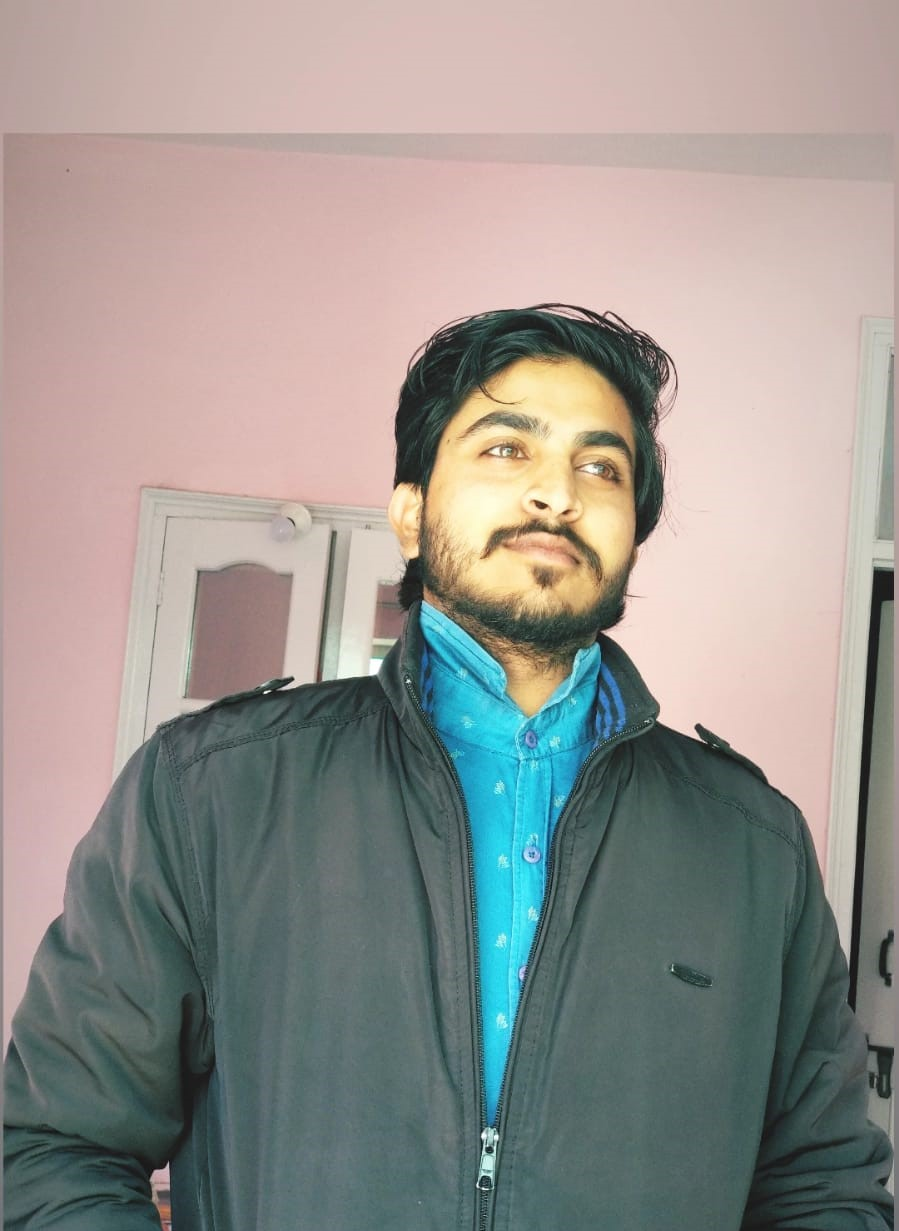
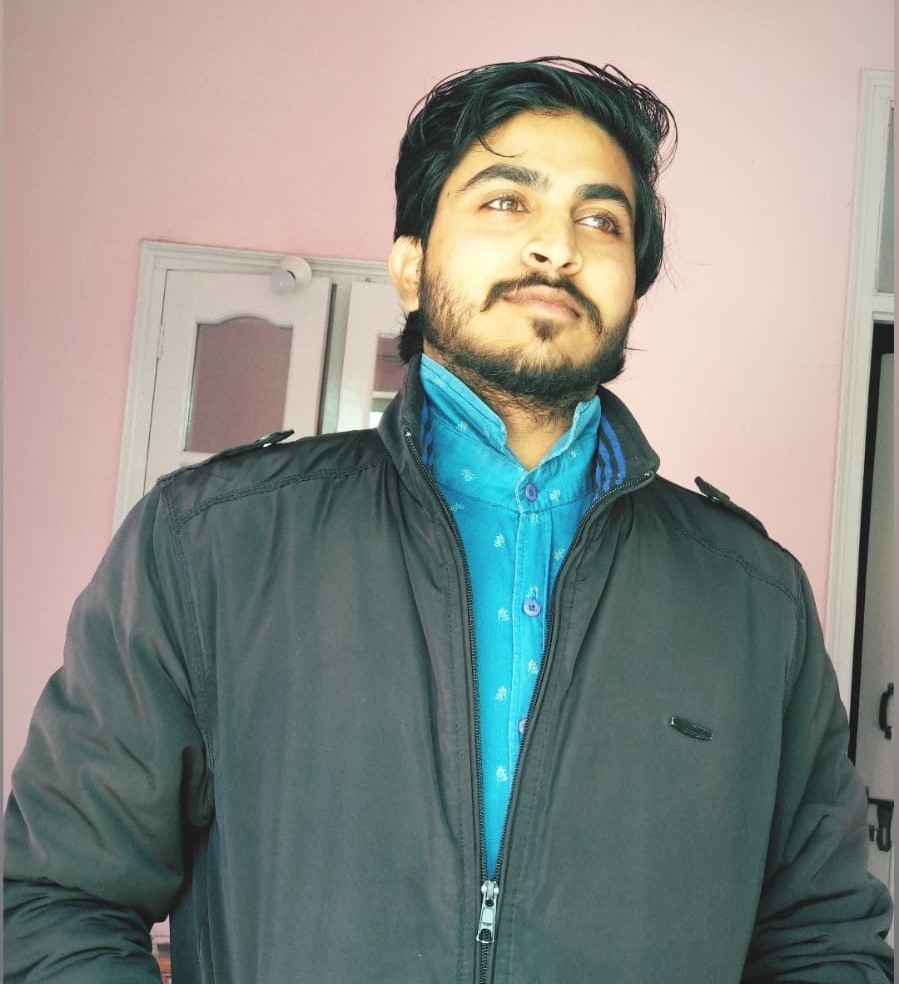
add ap

diff --git a/index.html b/index.html
@@ -239,7 +239,7 @@
 
         <div class="row">
           <div class="col-lg-4">
-            <img src="assets/img/profilep1-img.jpg" class="img-fluid" alt="">
+            <img src="assets/img/dp1.jpeg" class="img-fluid" alt="">
           </div>
           <div class="col-lg-8 pt-4 pt-lg-0 content">
             <h3>Full Stack Web Developer.</h3>
